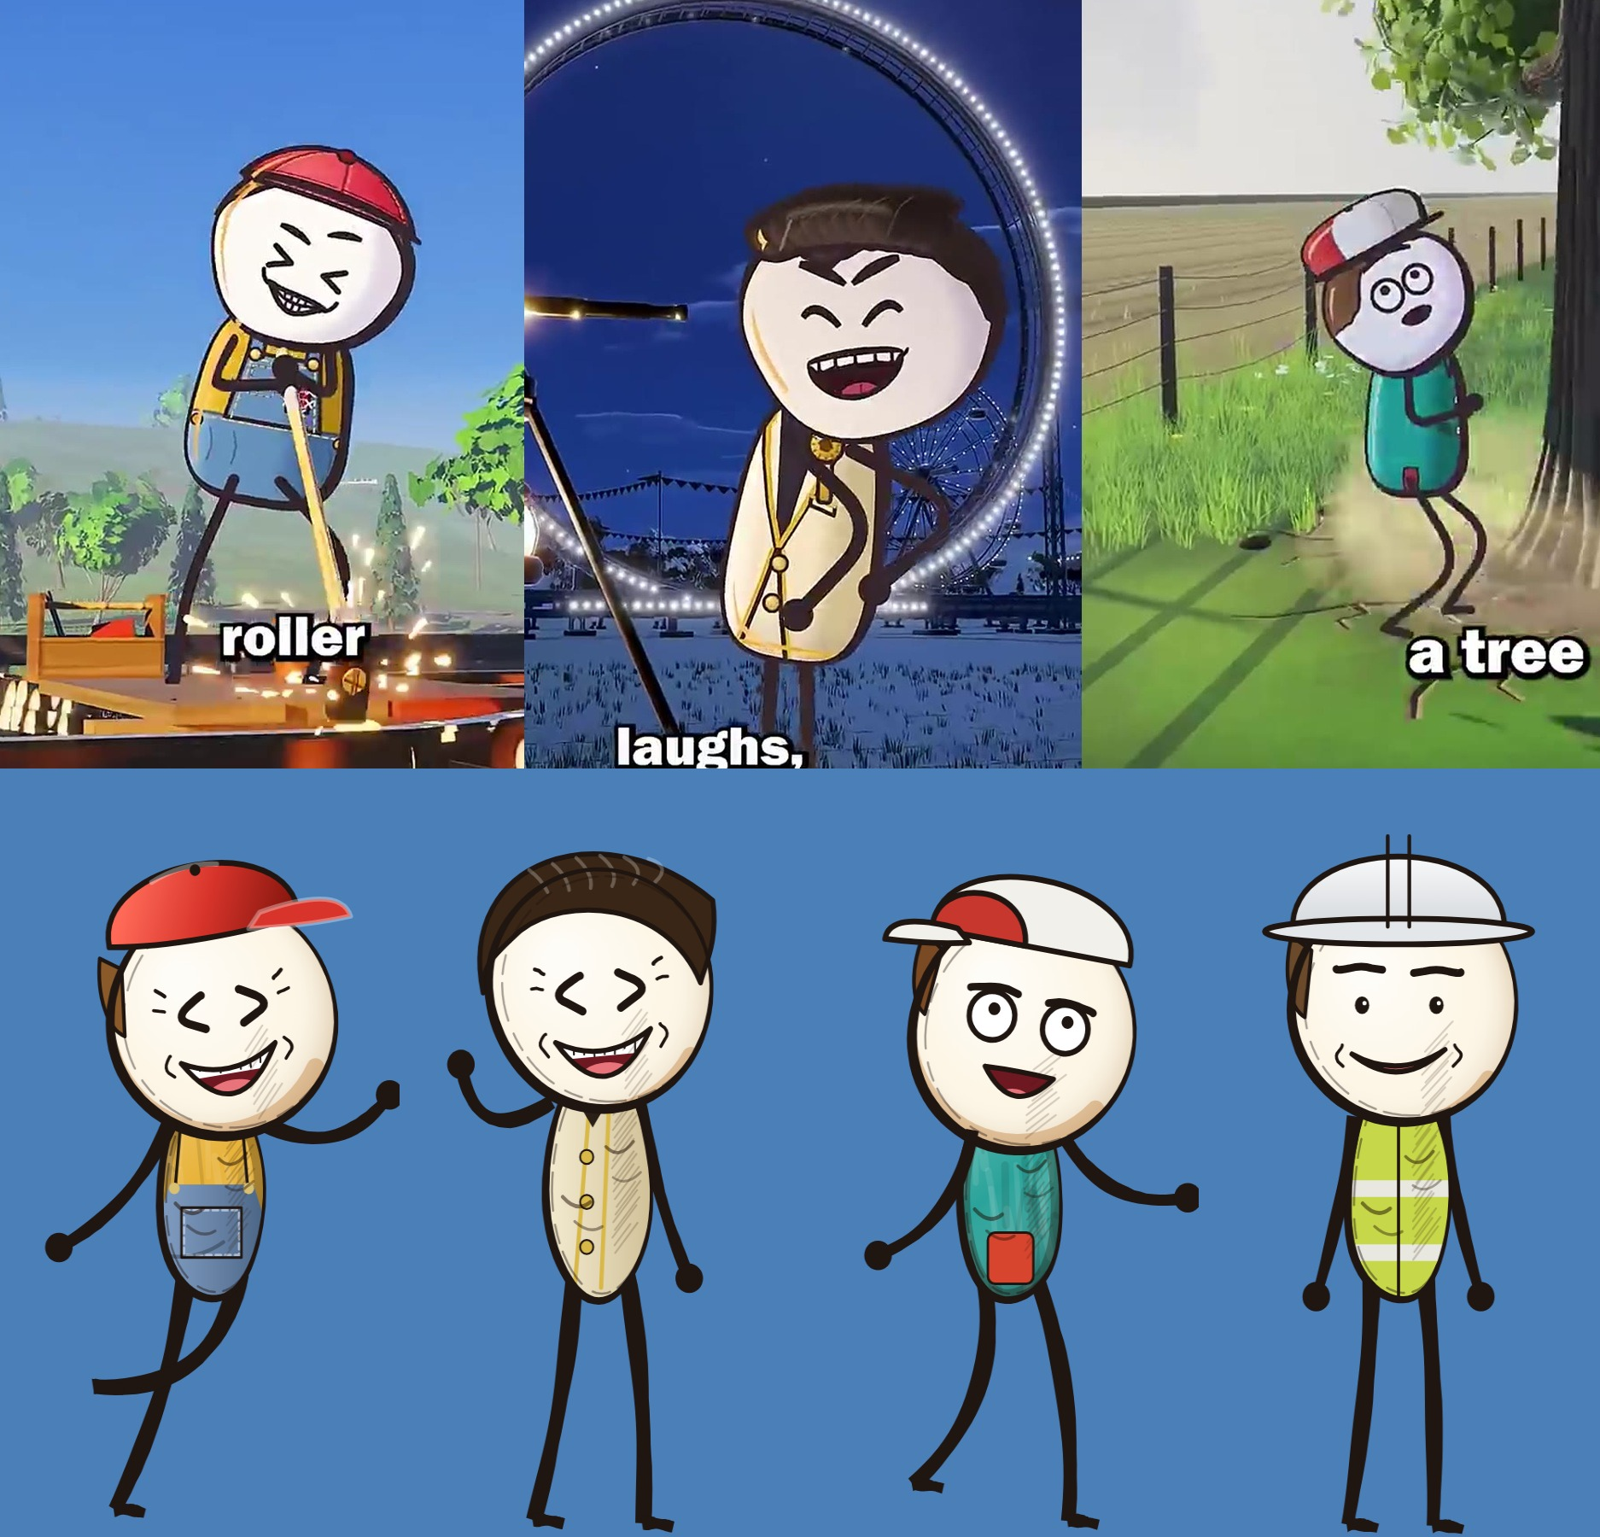
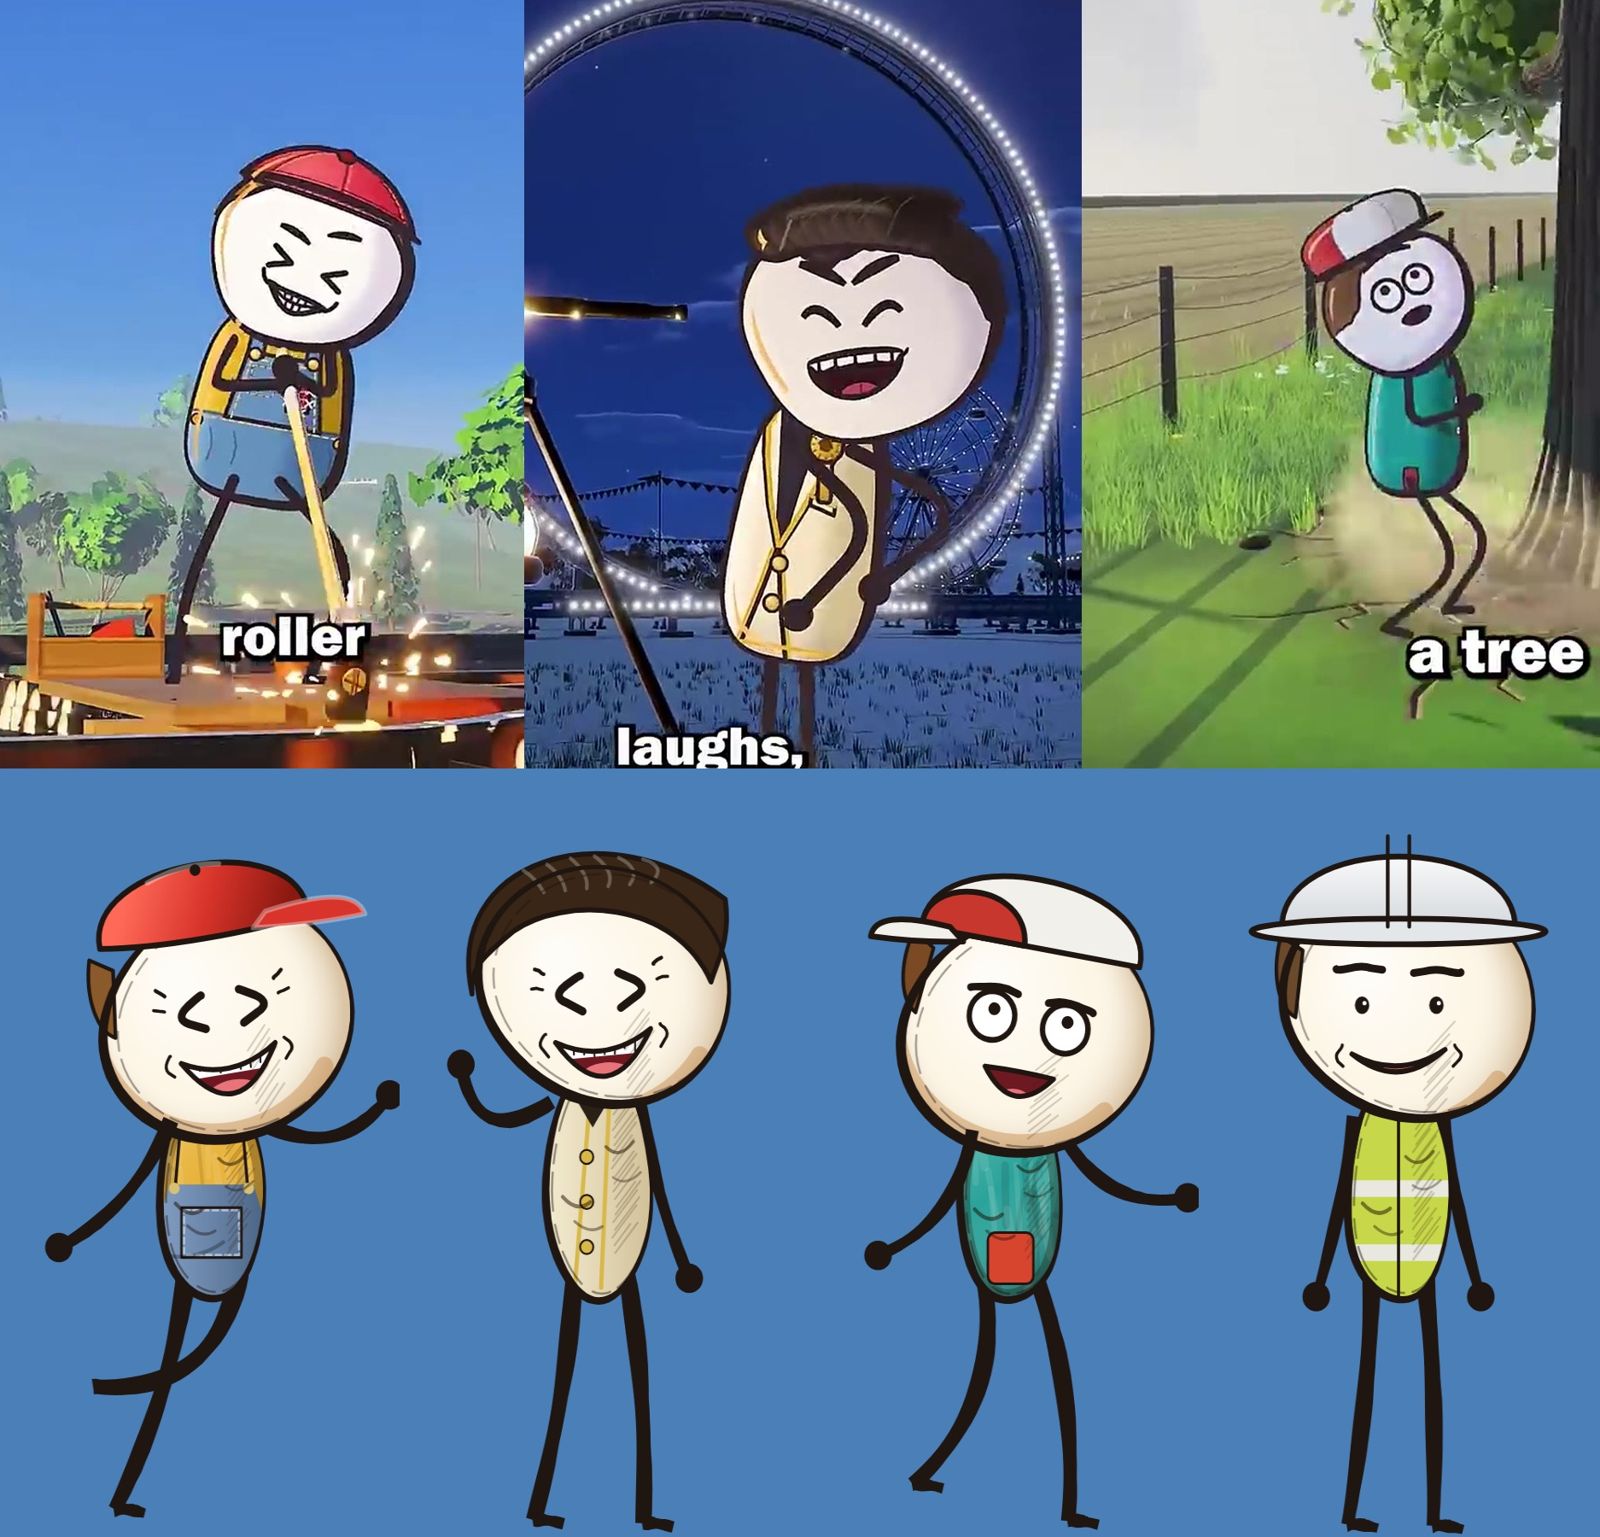
Style 2: wider, more asymmetric heads
Claude-Session: https://claude.ai/code/session_01FGKfNCiFWzyKtetsktk6LF

diff --git a/reel-studio/remotion-template/src/three/cast_designs.js b/reel-studio/remotion-template/src/three/cast_designs.js
@@ -1,9 +1,9 @@
 // Ten character designs for the stickman styles (numbered for the user's choice). `canvas` = look for stickdraw.js (style 2: 2D in 3D), `svg` = look for stickman_svg.js (style 3: flat cinematic).
 export const DESIGNS = [
-  { n: 1, svg: { hat: 'straw', hatColor: '#E3C06A', shirt: '#E6B93A', bib: '#5A7FB0', pants: '#5A7FB0', hair: 'short', hairColor: '#6A3D1C', bodyW: 0.9, headS: 1.3, rim: '#ffd9a0' }, id: 'barnaby', name: 'Red-cap kid', canvas: { hat: 'cap', hatColor: '#D8342B', shirt: '#E8B33A', overalls: '#5F86B8', asym: 1, hair: 'side', hairColor: '#8a5a2a', torsoH: 290, headW: 1.0 } },
-  { n: 2, svg: { hat: 'sun', hatColor: '#F2E3B0', shirt: '#C9556B', scarf: '#F2C14E', pants: '#3a2a3a', hair: 'short', hairColor: '#8A5A3A', bodyW: 1.5, headS: 1.25, rim: '#ffd9a0' }, id: 'mabel', name: 'Pompadour', canvas: { asym: -1, hair: 'pomp', hairColor: '#3a2616', vest: '#F6EBC8', trim: '#d9b84a', shirt: '#E8D9A0', torsoH: 320, headW: 1.0 } },
-  { n: 3, svg: { hat: 'capback', hatColor: '#D8342B', shirt: '#2F9A8D', pants: '#3b4150', bodyW: 1.1, headS: 1.4, rim: '#6f8cff' }, id: 'rex', name: 'Teal kid', canvas: { asym: 1, hat: 'trucker', hatColor: '#C8372D', hair: 'side', hairColor: '#7a4a24', shirt: '#2BA39A', patch: '#D8452F', headW: 1.0, torsoH: 280 } },
-  { n: 4, svg: { hat: 'hard', hatColor: '#F2B31A', goggles: true, shirt: '#d8d8d4', bib: '#E8782A', pants: '#E8782A', bodyW: 1.3, headS: 1.25, rim: '#ffd9a0' }, id: 'gus', name: 'Site worker', canvas: { asym: -1, hat: 'hard', vis: '#C6D84A', shirt: '#C6D84A', hair: 'side', hairColor: '#6a4a2a', torsoH: 300, headW: 1.0 } },
+  { n: 1, svg: { hat: 'straw', hatColor: '#E3C06A', shirt: '#E6B93A', bib: '#5A7FB0', pants: '#5A7FB0', hair: 'short', hairColor: '#6A3D1C', bodyW: 0.9, headS: 1.3, rim: '#ffd9a0' }, id: 'barnaby', name: 'Red-cap kid', canvas: { hat: 'cap', hatColor: '#D8342B', shirt: '#E8B33A', overalls: '#5F86B8', asym: 1, hair: 'side', hairColor: '#8a5a2a', torsoH: 290, headW: 1.1 } },
+  { n: 2, svg: { hat: 'sun', hatColor: '#F2E3B0', shirt: '#C9556B', scarf: '#F2C14E', pants: '#3a2a3a', hair: 'short', hairColor: '#8A5A3A', bodyW: 1.5, headS: 1.25, rim: '#ffd9a0' }, id: 'mabel', name: 'Pompadour', canvas: { asym: -1, hair: 'pomp', hairColor: '#3a2616', vest: '#F6EBC8', trim: '#d9b84a', shirt: '#E8D9A0', torsoH: 320, headW: 1.1 } },
+  { n: 3, svg: { hat: 'capback', hatColor: '#D8342B', shirt: '#2F9A8D', pants: '#3b4150', bodyW: 1.1, headS: 1.4, rim: '#6f8cff' }, id: 'rex', name: 'Teal kid', canvas: { asym: 1, hat: 'trucker', hatColor: '#C8372D', hair: 'side', hairColor: '#7a4a24', shirt: '#2BA39A', patch: '#D8452F', headW: 1.1, torsoH: 280 } },
+  { n: 4, svg: { hat: 'hard', hatColor: '#F2B31A', goggles: true, shirt: '#d8d8d4', bib: '#E8782A', pants: '#E8782A', bodyW: 1.3, headS: 1.25, rim: '#ffd9a0' }, id: 'gus', name: 'Site worker', canvas: { asym: -1, hat: 'hard', vis: '#C6D84A', shirt: '#C6D84A', hair: 'side', hairColor: '#6a4a2a', torsoH: 300, headW: 1.1 } },
   { n: 5, svg: { hat: 'fedora', hatColor: '#4a4036', coat: '#b99a6b', tie: '#7a1f26', shirt: '#eeeeea', pants: '#2a2a30', bodyW: 0.95, headS: 1.15, rim: '#6f8cff' }, id: 'nox', name: 'Nox, the detective', canvas: { hat: 'fedora', hatColor: '#4a4036', coat: '#b99a6b', tie: '#7a1f26', shirt: '#eeeeea', sleeve: '#b99a6b', ink: '#1a1a22', boots: '#1d1d22', nose: 1.9, headTilt: -4, body: { headS: 1.2, torsoW: 0.95, torsoH: 280, legL: 520, hand: 22, shoe: 1.1, armL: 1.3 } } },
   { n: 6, svg: { hat: 'scout', hatColor: '#8a6a3a', neckerchief: '#d8342b', backpack: '#6a4a2a', shirt: '#9bbf6a', pants: '#6a5a3a', bodyW: 1.0, headS: 1.3, rim: '#ffd9a0' }, id: 'pip', name: 'Pip, the scout', canvas: { hat: 'scout', hatColor: '#8a6a3a', band: '#c24a2a', neckerchief: '#d8342b', shirt: '#9bbf6a', sleeve: '#9bbf6a', backpack: '#6a4a2a', hair: '#c9863a', freckles: '#b5663a', boots: '#4a3320', body: { headS: 1.5, torsoW: 1.0, torsoH: 170, legL: 280, hand: 22, shoe: 1.1, armL: 1.05 } } },
   { n: 7, svg: { hat: 'chef', apron: '#bcd7ee', shirt: '#f6f6f2', pants: '#3a3a40', bodyW: 1.7, headS: 1.2, rim: '#ffe9a0' }, id: 'beppo', name: 'Beppo, the chef', canvas: { hat: 'chef', apron: '#bcd7ee', shirt: '#f6f6f2', sleeve: '#f6f6f2', stache: '#3a2a1a', nose: 1.3, boots: '#2a2a2a', body: { headS: 1.3, torsoW: 1.75, torsoH: 200, legL: 300, hand: 22, shoe: 1.1, armL: 1.0 } } },

diff --git a/reel-studio/remotion-template/src/three/stickdraw.js b/reel-studio/remotion-template/src/three/stickdraw.js
@@ -73,7 +73,7 @@ export function drawStick(ctx, W, H, s) {
   ctx.restore(); loop(bean, 72, 9.5, -0.7); inner(bean, 60, 0.94, 0.45);
   // ---- head: a round, slightly tall oval; cream with a warm shaded rim; ink loop with a heavy shadow side
   ctx.save(); ctx.translate(shX * 1.1, hdY); ctx.rotate((pose.tilt + (look.headTilt || 0) + (expr.tilt2 || 0)) * R); const fx = turn * 56;
-  const headF = (a) => { const r = 1 + 0.075 * Math.cos(a - 0.75 * (look.asym ?? 1)) + 0.022 * sm1(a); return [Math.cos(a) * HEADRX * r, Math.sin(a) * HEADRY * r]; };   // a circle with one fuller cheek, not an egg
+  const headF = (a) => { const r = 1 + 0.125 * Math.cos(a - 0.75 * (look.asym ?? 1)) + 0.04 * Math.cos(2 * a + 1.3 * (look.asym ?? 1)) + 0.022 * sm1(a); return [Math.cos(a) * HEADRX * r, Math.sin(a) * HEADRY * r]; };   // a circle with one fuller cheek, not an egg
   ctx.save(); ctx.beginPath(); for (let i = 0; i <= 56; i++) { const p = headF((i / 56) * Math.PI * 2); i ? ctx.lineTo(p[0], p[1]) : ctx.moveTo(p[0], p[1]); } ctx.closePath(); ctx.fillStyle = look.skin || '#fdf6e6'; ctx.fill(); ctx.clip();
   const hg = ctx.createRadialGradient(-HEADRX * 0.3, -HEADRY * 0.35, 20, 0, 0, HEADRY * 1.15); hg.addColorStop(0, 'rgba(255,255,255,0.7)'); hg.addColorStop(0.65, 'rgba(255,255,255,0)'); hg.addColorStop(1, 'rgba(150,100,40,0.34)'); ctx.fillStyle = hg; ctx.fillRect(-300, -300, 600, 600);
   ctx.strokeStyle = 'rgba(190,120,50,0.38)'; ctx.lineWidth = 30; ctx.beginPath(); ctx.ellipse(0, 0, HEADRX, HEADRY, 0, Math.PI * 0.2, Math.PI * 0.95); ctx.stroke(); ctx.restore();
